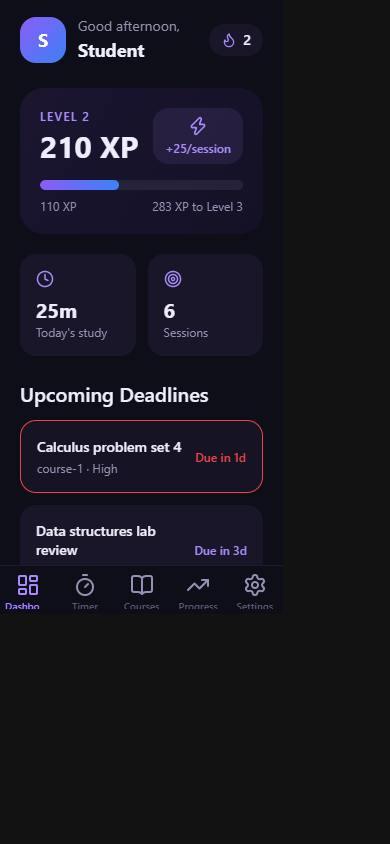
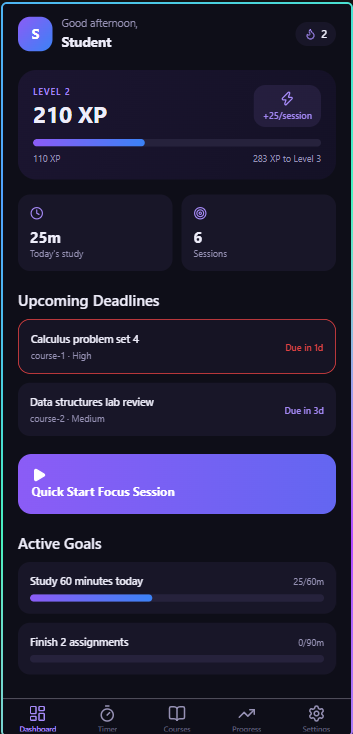
Add light mode screenshots and fix progress contrast

diff --git a/mobile/app/(app)/(tabs)/progress.tsx b/mobile/app/(app)/(tabs)/progress.tsx
@@ -41,7 +41,7 @@ const ICON_MAP: Record<string, any> = {
 
 export default function Progress() {
   const { state } = useStore();
-  const { profile, badges } = state;
+  const { profile, badges, settings } = state;
   const levelInfo = computeLevel(profile.xp);
 
   const unlocked = badges.filter((b) => b.unlockedAt);
@@ -57,10 +57,16 @@ export default function Progress() {
 
         {/* Level card */}
         <LinearGradient
-          colors={['#1B1530', '#101B33']}
+          colors={settings.darkMode ? ['#1B1530', '#101B33'] : ['#FFFFFF', '#F3F4FA']}
           start={{ x: 0, y: 0 }}
           end={{ x: 1, y: 1 }}
-          style={{ borderRadius: 24, padding: 20, marginBottom: 20 }}
+          style={{
+            borderRadius: 24,
+            padding: 20,
+            marginBottom: 20,
+            borderWidth: settings.darkMode ? 0 : 1,
+            borderColor: '#E7E6F0',
+          }}
         >
           <View className="flex-row items-center justify-between mb-4">
             <View className="flex-row items-center gap-3">
